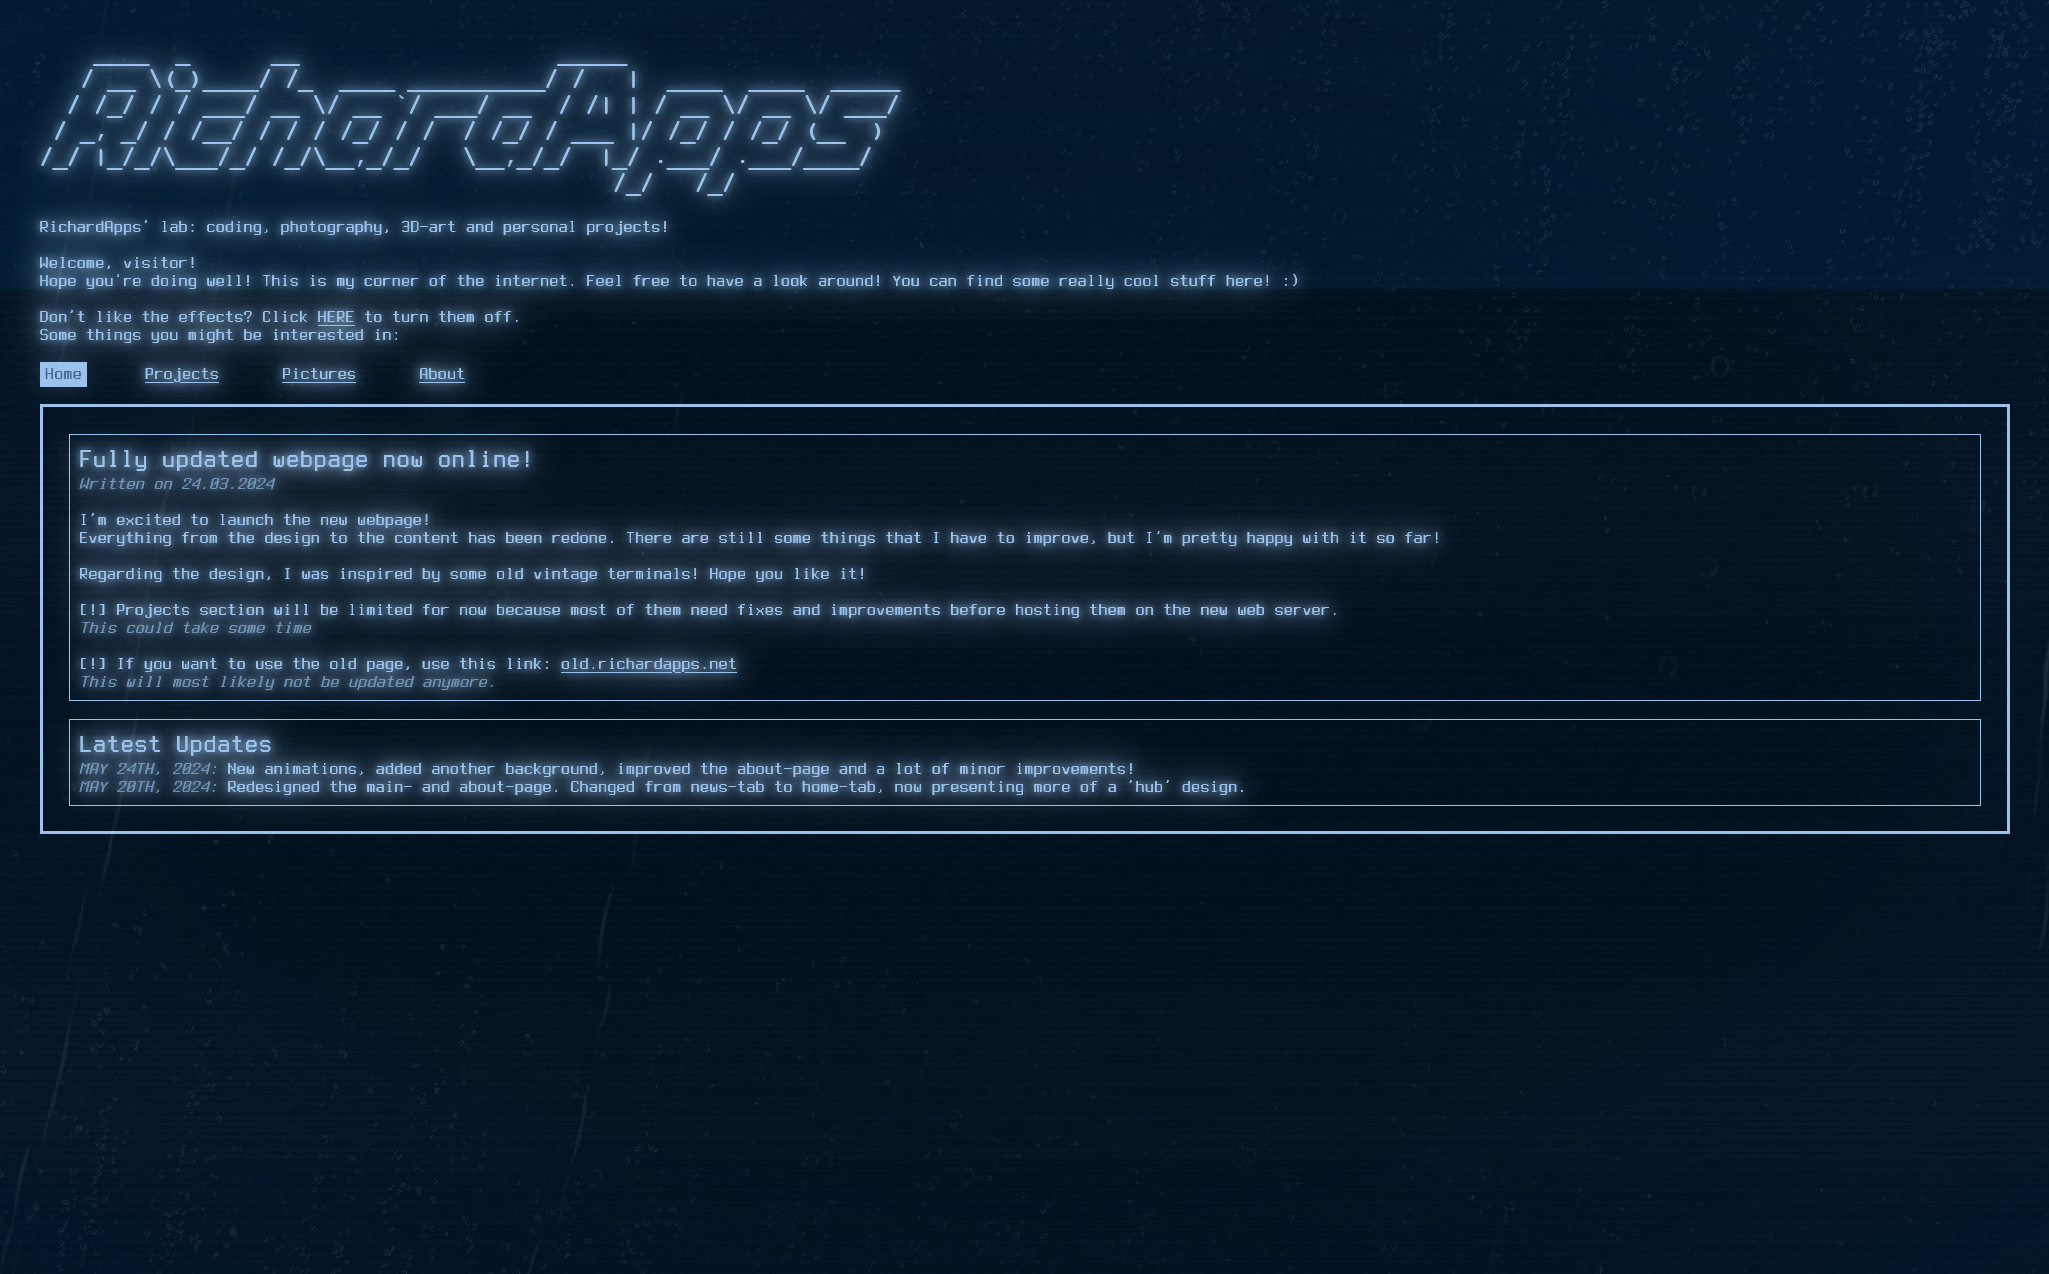
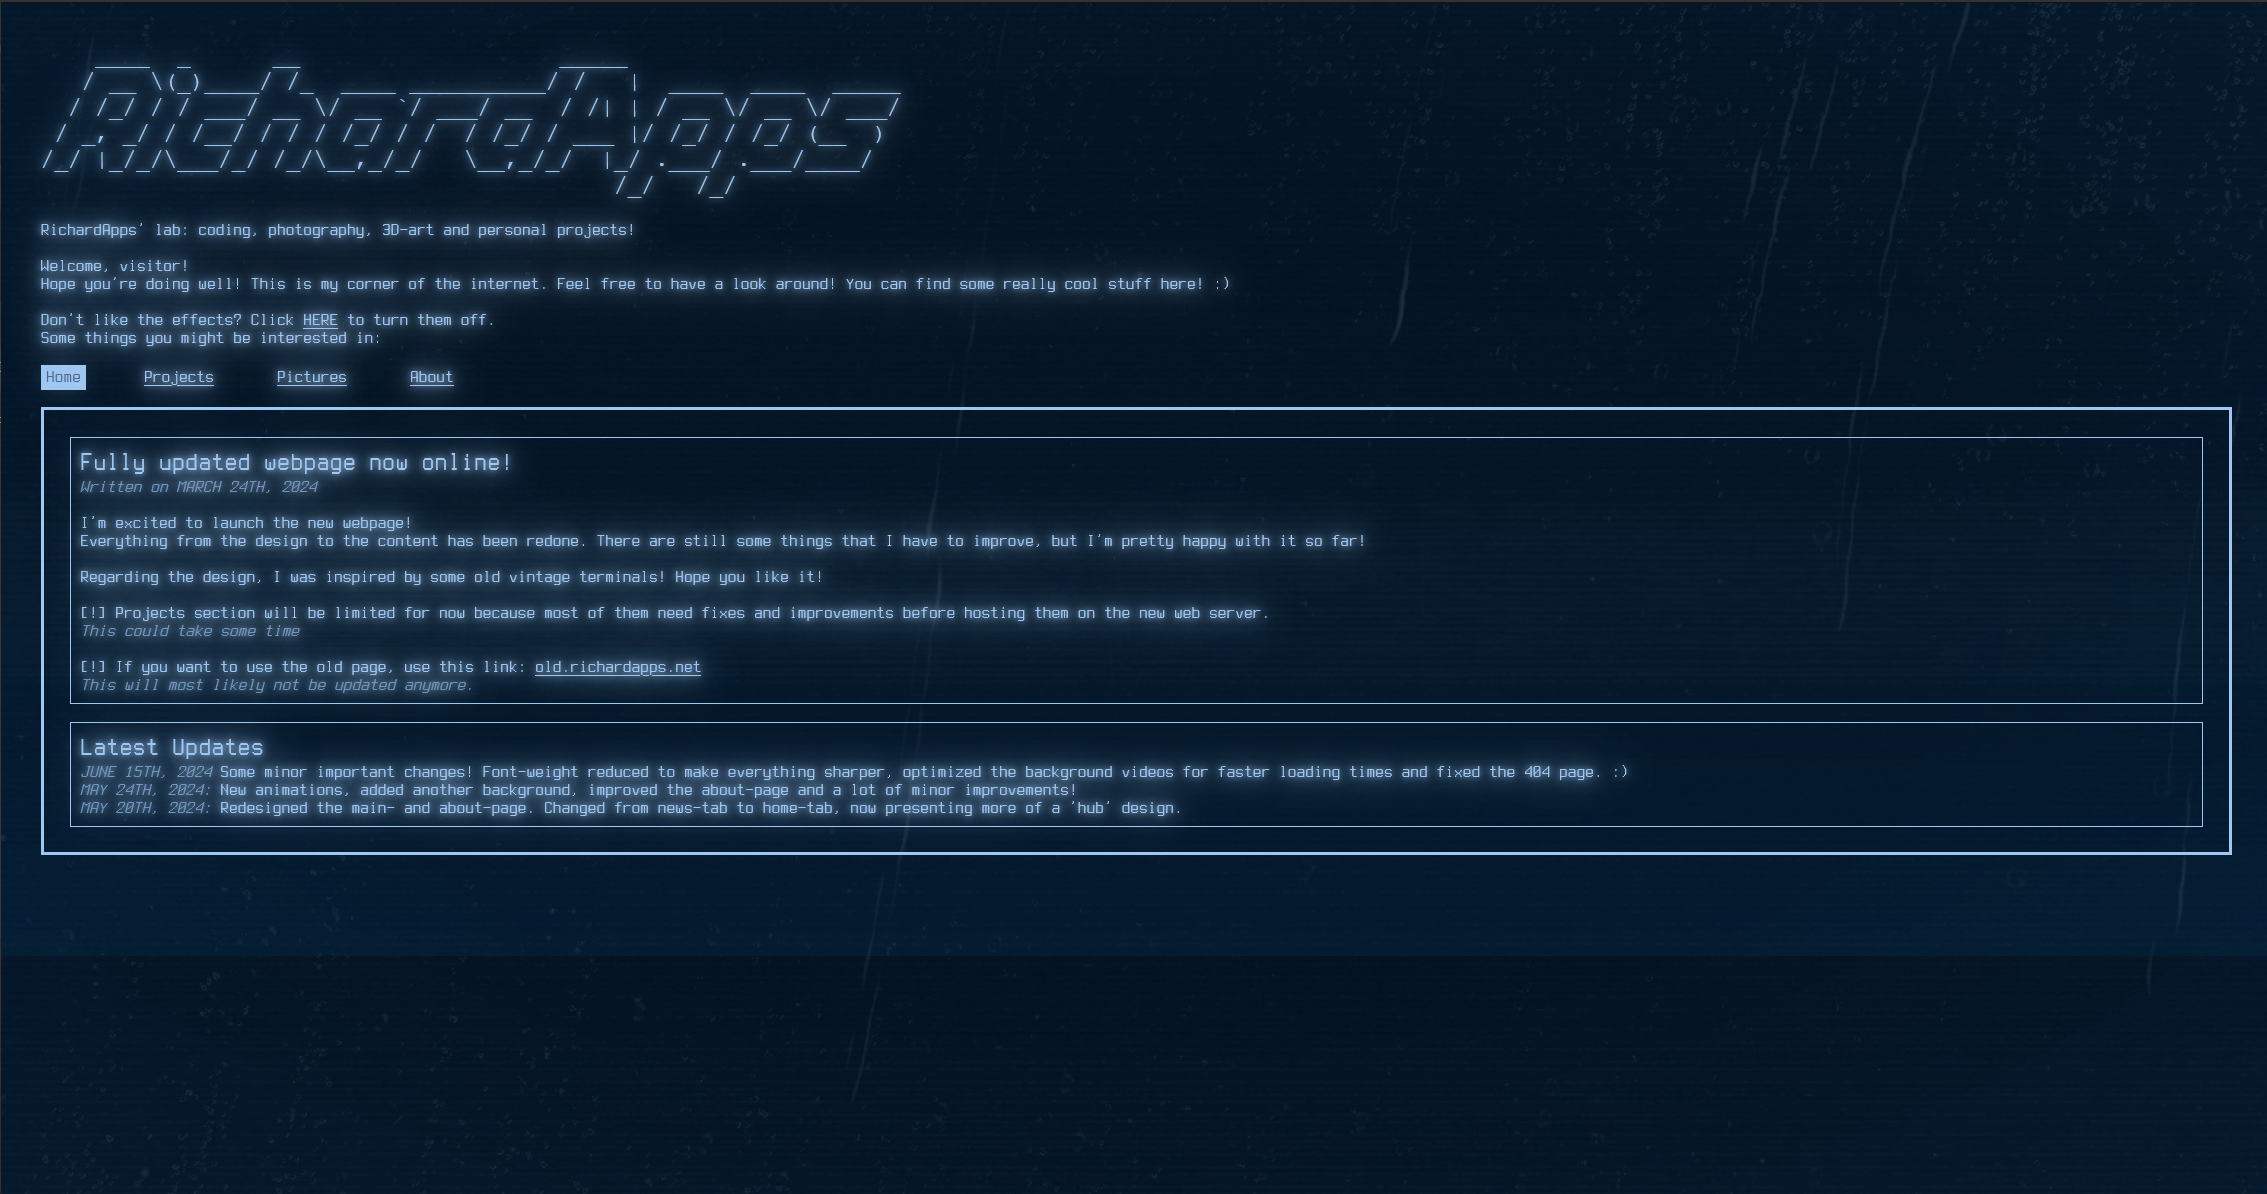
Content update

Changed region(s): [[0.0, 0.031, 0.9995, 0.7127], [0.937, 0.7127, 0.9683, 0.7437]]

diff --git a/index.html b/index.html
@@ -126,9 +126,17 @@
 				<li>
 					<p class="pr_title">VisualINC</p>
 					<p class="pr_desc">A website builder for creating awesome webpages without coding!</p>
-					<p class="pr_warning">[!] Still under development, not functional yet! You can still visit the site if you're adventurous!</p>
+					<p class="pr_warning">[!] Still under development, not fully functional yet! (Current Version only works on Chrome, for now)</p>
 					<br>
 					<p><a href="https://visualinc.richardapps.net" target="_blank">VISIT PAGE</a></p>
+				</li>
+				<li>
+					<p class="pr_title">TropicalMC</p>
+					<p class="pr_desc">A minecraft server featuring common gamemodes, while also some unique modes:</p>
+					<p class="pr_desc">-> A RPG gamemode with a explorable world, custom weapons, npc's with AI, and a main quest!</p>
+					<p class="pr_info">[?] Release date TBA. Join the Discord for more information.</p>
+					<br>
+					<p><a href="https://tropicalminecraft.com" target="_blank">VISIT PAGE</a></p>
 				</li>
 				<li>
 					<p class="pr_title">RichardApps-web</p>
@@ -144,7 +152,7 @@
 				</li>
 			</ul>
 			<br>
-			<p><em>(This list is currently limited. I will update it as soon as I get more projects online! :) )</em></p>
+			<p><em>(The list is really small for now. I will update it as soon as I get more projects online! :) )</em></p>
 		</div>
 
 		<div id="pictures" class="tabs">
@@ -203,7 +211,7 @@
 						<p>Hi! Firstly, thank you for visiting my website! Glad to have you here.</p>
 						<p>As to me, my name is Richard. <em>(Crazy, right?)</em> I'm really interested in everything computer related!</p>
 						<p>I've done some coding, 3D-art, game-development - even digital drawing!</p>
-						<p><em>I'm no expert in any of these, but it's fun!)</em></p>
+						<p><em>I'm no real expert in any of these, I just do them as a Hobby.)</em></p>
 					</div>
 					<div class="grid_row_box">
 						<h2>Skills</h2>

diff --git a/archive.html b/archive.html
@@ -22,16 +22,6 @@
         <br>
         <ul id="pr_list">
             <li>
-                <p class="pr_title">TropicalMC</p>
-                <p class="pr_desc">A minecraft server featuring common gamemodes, while also some unique modes:</p>
-                <p class="pr_desc">-> A MORPG game with a big explorable world, custom weapons, npc's with AI, and a fully voiced main quest.</p>
-                <p class="pr_warning">[!] Due to lack of interest from other team members, this project was canceled.</p>
-                <br>
-                <p class="pr_info">[?] Since a lot of work went into this and some systems were already production-ready, I might release a small version of this some day. Reach out to me if you'd be interested in this!</p>
-                <br>
-                <p><a href="https://tropicalmc.richardapps.net" target="_blank">VISIT PAGE</a></p>
-            </li>
-            <li>
                 <p class="pr_title">LuqieDesign</p>
                 <p class="pr_desc">A YouTube channel featuring tutorials on video editing and motion graphics using a mobile app called 'AlightMotion'.</p>
                 <p class="pr_info">[?] Since I now have better hardware (PC), I understandably switched to desktop software.</p>
@@ -39,6 +29,7 @@
                 <p><a href="https://www.youtube.com/@LuqieDesign" target="_blank">VISIT PAGE</a></p>
             </li>
         </ul>
+        <p>..</p>
         <br>
         <p>Click <a href="index.html#projects">HERE</a> to go back to the homepage.</p>
     </div>
